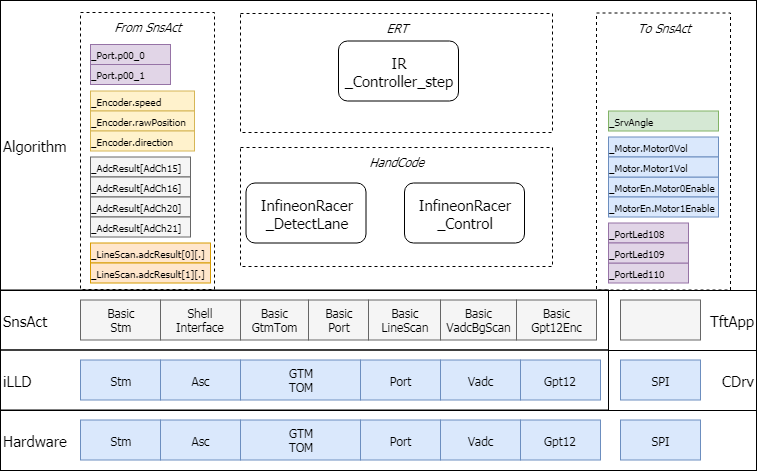
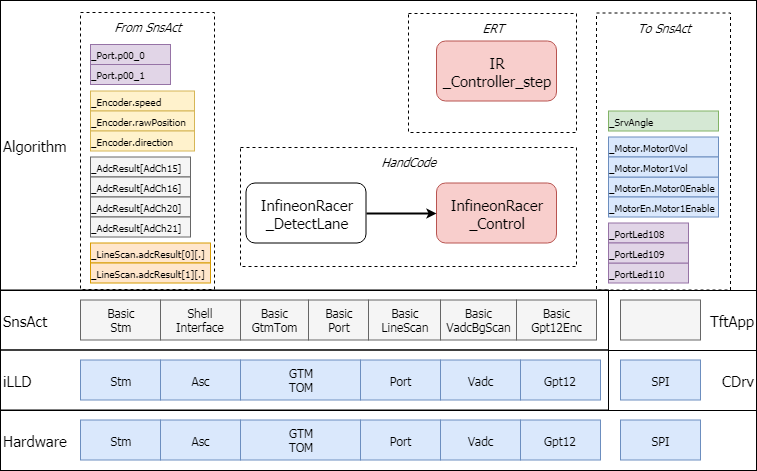
Add IrUserGuide images

Changed region(s): [[0.4557, 0.0297, 0.7596, 0.2378], [0.4861, 0.3864, 0.7596, 0.535], [0.4861, 0.327, 0.5773, 0.3567]]

diff --git a/docs/InfineonRacerUserGuide.md b/docs/InfineonRacerUserGuide.md
@@ -4,30 +4,192 @@ author: Wootaik Lee (wootaik@gmail.com)
 date: 2018-01-30
 ---
 
-# Infineon Racer User Guide
+# InfineonRacer User Guide
 
 ## Objectives
-*
+
+* 사용자 관점에서 InfineonRacer를 이해하고 활용할 수 있는 능력을 기른다.
 
 ## References
-*
-
-##Example Description 
-*
-
-## Hardware
 * 
 
-## iLLD - related
-*
-
-## 추가적인 설명
-
+##SW Architecture 
+* 
+  ![InfineonRacerUserGuide_SwArch](images/InfineonRacerUserGuide_SwArch.png)
 
 
-![InfineonRacerUserGuide_SwArch](images/InfineonRacerUserGuide_SwArch.png)
+
+![InfineonRacerUserGuide_ProjectExplorer](images/InfineonRacerUserGuide_ProjectExplorer.png)
+
+### 선택적으로 소스코드 빌드하기
+
+* Release/Test...
 
 
+
+
+
+![InfineonRacerUserGuide_SelectionBranches](images/InfineonRacerUserGuide_SelectionBranches.png)
+
+## Basic Module Structure & API
 
 ![InfineonRacerUserGuide_BasicModuleArch](images/InfineonRacerUserGuide_BasicModuleArch.png)
+
+
+
+![InfineonRacerUserGuide_API](images/InfineonRacerUserGuide_API.png)
+
+## Schedule
+
+* 
+
+```c
+void appTaskfu_init(void){
+	BasicLineScan_init();
+	BasicPort_init();
+    BasicGtmTom_init();
+    BasicVadcBgScan_init();
+    BasicGpt12Enc_init();
+    AsclinShellInterface_init();
+
+    tft_app_init(1);
+    perf_meas_init();
+
+#ifdef CODE_ERT
+    IR_Controller_initialize();
+#else
+    InfineonRacer_init();
+#endif
+}
+
+void appTaskfu_1ms(void)
+{
+	task_cnt_1m++;
+
+}
+
+
+void appTaskfu_10ms(void)
+{
+	task_cnt_10m++;
+	if(task_cnt_10m%2 == 0){ /* Every 20msec */
+		BasicLineScan_run();
+		InfineonRacer_detectLane();
+		BasicPort_run();
+		BasicGtmTom_run();
+		BasicVadcBgScan_run();
+
+		if(IR_Ctrl.basicTest == FALSE){ /* Skip when test Basic Functions */
+			#ifdef CODE_ERT
+				IR_Controller_step();
+			#else
+				InfineonRacer_control();
+			#endif
+		}
+		AsclinShellInterface_runLineScan();
+	}
+}
+
+void appTaskfu_100ms(void)
+{
+	task_cnt_100m++;
+	if(task_cnt_100m % REFRESH_TFT == 0){ /* REFRESH_TFT = 2, Every 200msec */
+		tft_app_run();
+	}
+}
+
+void appTaskfu_1000ms(void)
+{
+	task_cnt_1000m++;
+}
+
+void appTaskfu_idle(void){
+	AsclinShellInterface_run();
+	perf_meas_idle();
+
+}
+
+void appIsrCb_1ms(void){
+	BasicGpt12Enc_run();
+}
+```
+
+
+## Algorithm: Hand-Code vs. ERT
+* configuration 
+
+```c
+/* AppSw/Tricore/Cfg_Illd/Configuration.h */
+	/* 중간 생략 */
+/* 다음 3개중의 하나만 정의해서 사용*/
+#define CODE_HAND			// Hand code : default
+//#define CODE_ERT			// Using embedded coder
+//#define CODE_SCILAB		// Using SciLab
+	/* 중간 생략 */
+```
+
+```c
+/* in AppSw/Tricore/Main/Release/AppTaskFu.c */
+
+void appTaskfu_10ms(void)
+{
+    #ifdef CODE_ERT
+	    IR_Controller_step();
+    #else
+    	InfineonRacer_control();
+    #endif
+}
+```
+
+![InfineonRacerUserGuide_Algorithm](images/InfineonRacerUserGuide_Algorithm.png)
+
+
+
+
+
+## Configuration
+
+### Module Configuration
+
+
+
+### Interrupt Configuration
+
+
+
+## Modules
+
+### Service 1: BasicStm
+
+
+
+### Service 2: AsclinShellInterface
+
+
+
+### Service 3: TFT
+
+
+
+### IO: Port
+
+
+
+### IO: VadcBgScan
+
+
+
+### IO: BasicLineScan
+
+
+
+### IO: BasicGtmTom
+
+
+
+### IO: BasicGpt12Enc
+
+
+
+
 
